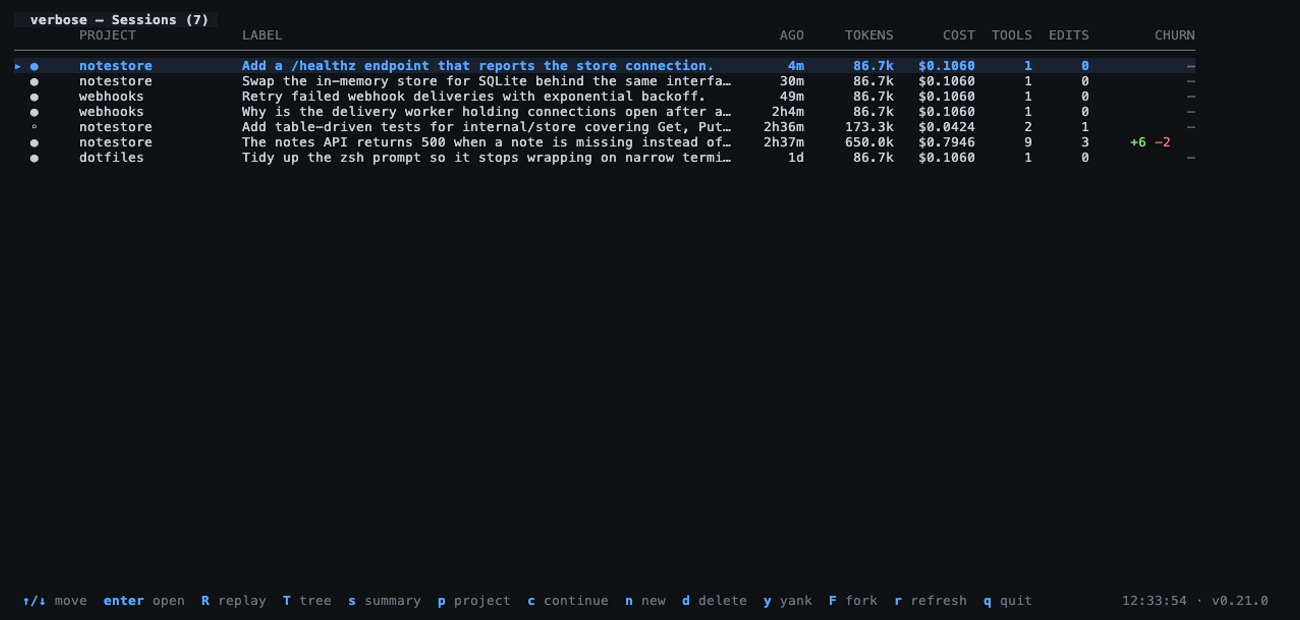
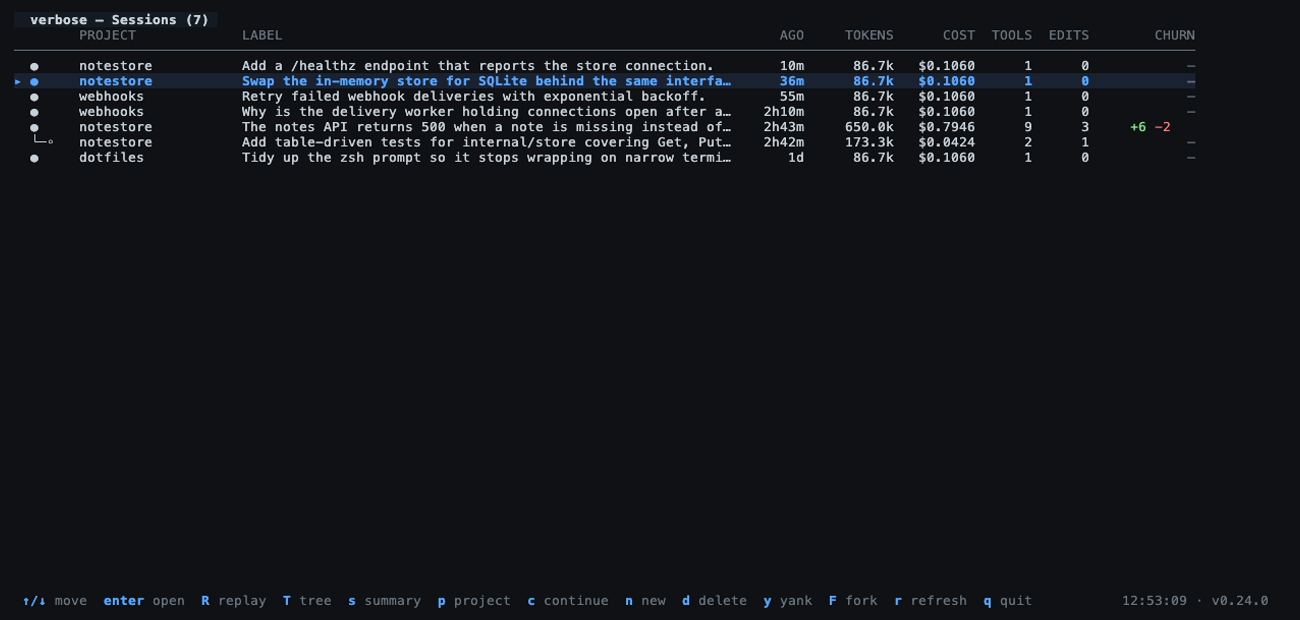
Show the rendered plan in the demo, and fix two stale frames (#10)
The synthetic session's second narration is now a real markdown plan —
heading, table, numbered list, inline code, bold — so the recording shows
what 0.24.0 does with one. The tape jumps to it by step number rather
than waiting for playback to arrive, then returns to step 1 so everything
after it is recorded as before.

Two frames had gone quietly wrong and nothing failed to say so:

- The tape reached the session that did the work by pressing Down five
  times. Grouping subagents put the agent's own row directly under its
  parent, so the fifth Down started landing on the agent — four perfectly
  good screenshots of the wrong run. Four now, with a comment saying why.
- The diff screenshot opened on handler_test.go, a NEW file, so it was
  all additions with nothing on the left, under a caption promising "each
  removed line against the one that replaced it". It opens handler.go
  now, which is the file the session actually patched.

Claude-Session: https://claude.ai/code/session_01D9gGqMRk9F6B39rY3MpL8F

diff --git a/docs/demo-data.py b/docs/demo-data.py
@@ -80,8 +80,25 @@ tool("t2", "Grep", {"pattern": "ErrNotFound", "path": "internal"})
 result("t2", {"stdout": "internal/store/store.go:17:var ErrNotFound = errors.New(\"note not found\")\n",
               "stderr": "", "interrupted": False})
 
-say("The store already returns a typed error; the handler just never checks for "
-    "it. Mapping it to 404 is the fix.")
+# A plan the way an agent actually writes one: markdown. The replay renders it
+# — heading, table, numbered list, `code`, **bold** — which is the whole point
+# of having a step like this on camera.
+say("""## The fix
+
+`store.Get` already returns a typed `ErrNotFound`. `getNote` never checks for
+it, so every miss falls through to the generic 500 branch.
+
+| File | Change |
+|---|---|
+| `internal/http/handler.go` | Map `ErrNotFound` to **404** |
+| `internal/http/router.go` | Register `/notes/{id}` |
+| `internal/http/handler_test.go` | Cover the missing-note path |
+
+1. Check the typed error in `getNote`, before the generic 500
+2. Add a failing test for a note that does not exist
+3. Register the route that test calls, then re-run
+
+The store's own error text stays as it is — *that* is a separate change.""")
 
 tool("t3", "Edit", {"file_path": f"{CWD}/internal/http/handler.go"})
 result("t3", {"filePath": f"{CWD}/internal/http/handler.go", "structuredPatch": [

diff --git a/CLAUDE.md b/CLAUDE.md
@@ -352,3 +352,15 @@ python3 docs/demo-data.py && vhs docs/demo.tape
 ```
 
 `verbose` honours `$HOME`, which is what makes the synthetic tree possible.
+
+**The tape navigates by counting rows, and nothing tells it when that count is
+wrong.** Grouping subagents put an extra row under the parent, so the five
+`Down`s that used to reach the session that did the work started landing on its
+agent instead — the recording still produced five perfectly good screenshots of
+the wrong run. Check the frames after any change to the list or the replay,
+and prefer an addressed jump (`/` then a step number) over waiting a fixed
+number of seconds for playback to arrive somewhere.
+
+The step a screenshot wants is worth naming in a comment: `docs/img/plan.png`
+is step 5 because that is the first markdown plan, and a step inserted before
+it moves the target silently.

diff --git a/README.md b/README.md
@@ -53,6 +53,13 @@ the work happened in and the branch it was on — `~/workspace/proj  ⎇ main`.
 
 ![replay](docs/img/replay.png)
 
+**A plan is rendered, not flattened.** An agent writes markdown, so a `PLAN`
+step gets its heading, its table, its numbered list and its `code` and **bold**
+laid out — rather than every newline deleted and the whole thing run together
+into one paragraph.
+
+![plan](docs/img/plan.png)
+
 **The tree** (`T`) sits beside it and scrolls itself to whatever is being
 changed — new files green, changed orange, removed red, untouched dim.
 
